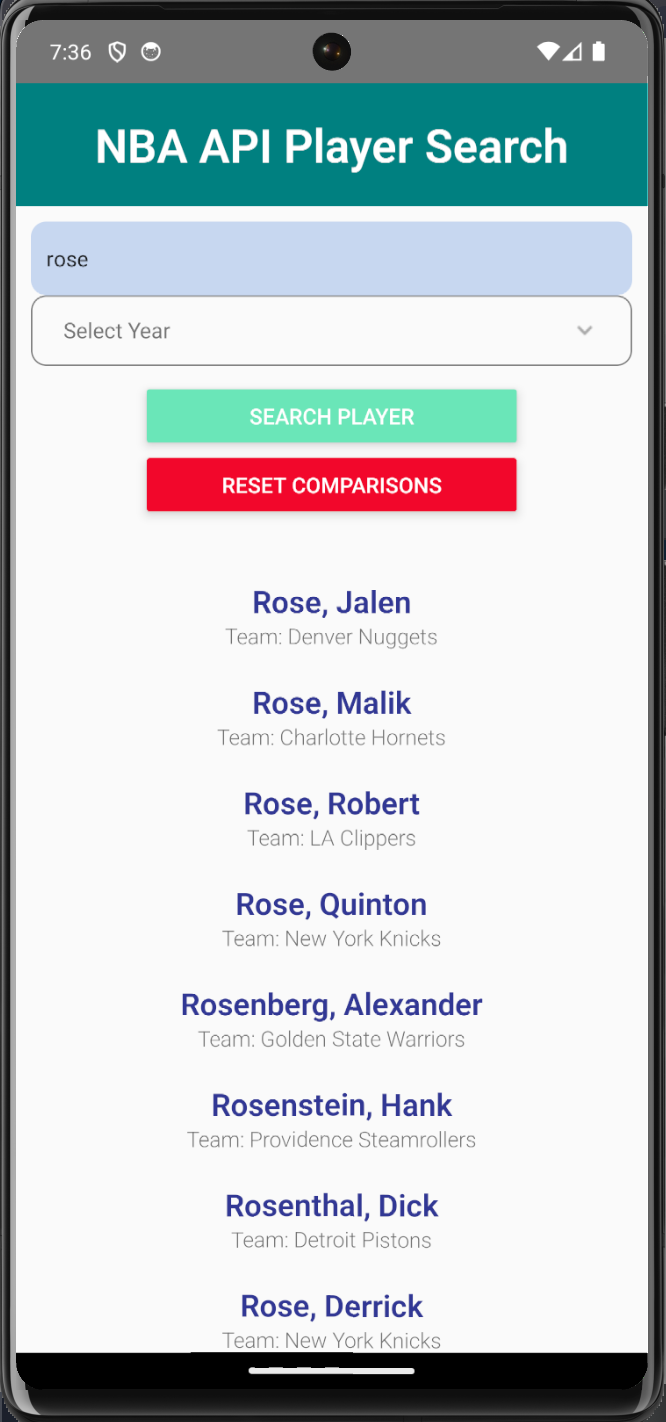
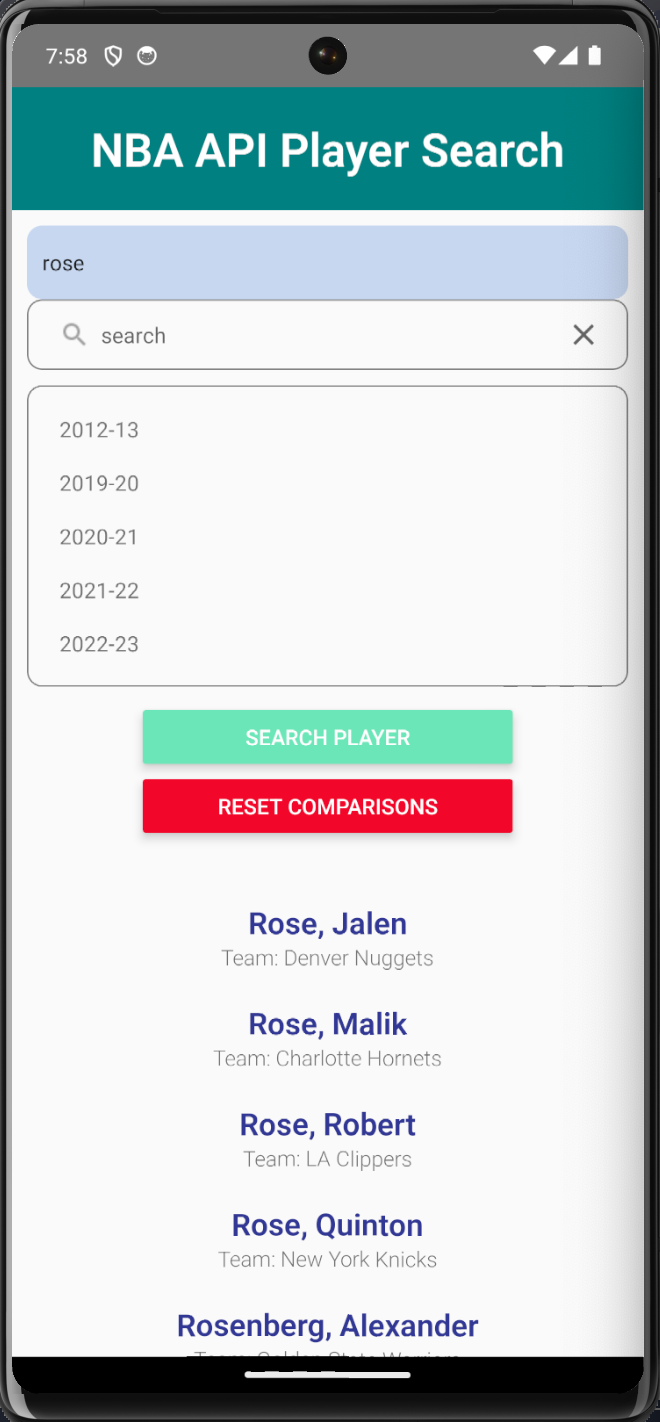
updated styling, readme, & images

Changed region(s): [[0.0, 0.0, 1.0, 1.0], [0.0909, 0.3713, 0.2121, 0.4641]]

diff --git a/components/API.tsx b/components/API.tsx
@@ -105,26 +105,39 @@ export default function API() {
 
         {/* display stats if available */}
         <View style={styles.statComparisonsContainer}>
-          {statComparisons.map(player => (
-            <View
-              key={`${player.id}.${player.selectedYear}`}
-              style={styles.playerStats}>
-              <View style={styles.playerNameStats}>
-                <Text>{player.firstName}</Text>
-                <Text>{player.lastName}</Text>
+          {statComparisons.length ? (
+            <View>
+              <View style={styles.statComparisonsHeader}>
+                <Text style={styles.headerText}>Player</Text>
+                <Text style={styles.headerText}>Year</Text>
+                <Text style={styles.headerText}>Pts</Text>
+                <Text style={styles.headerText}>Rbs</Text>
+                <Text style={styles.headerText}>Asts</Text>
               </View>
-              <Text>{player.selectedYear}</Text>
-              <Text>{player.stats[0]?.pts}</Text>
-              <Text>{player.stats[0]?.reb}</Text>
-              <Text>{player.stats[0]?.ast}</Text>
-              {/* <Text>{player.stats[0]?.stl}</Text>
+              {statComparisons.map(player => (
+                <View
+                  key={`${player.id}.${player.selectedYear}`}
+                  style={styles.playerStats}>
+                  <View style={styles.playerNameStats}>
+                    <Text style={styles.nameText}>{player.firstName}</Text>
+                    <Text style={styles.nameText}>{player.lastName}</Text>
+                  </View>
+                  <Text>{player.selectedYear}</Text>
+                  <Text>{player.stats[0]?.pts}</Text>
+                  <Text>{player.stats[0]?.reb}</Text>
+                  <Text>{player.stats[0]?.ast}</Text>
+                  {/* <Text>{player.stats[0]?.stl}</Text>
               <Text>{player.stats[0]?.blk}</Text>
               <Text>{player.stats[0]?.turnover}</Text>
               <Text>{player.stats[0]?.fg_pct}</Text>
               <Text>{player.stats[0]?.fg3_pct}</Text>
               <Text>{player.stats[0]?.ft_pct}</Text> */}
+                </View>
+              ))}
             </View>
-          ))}
+          ) : (
+            <View></View>
+          )}
         </View>
 
         {/* check player data & map through it */}
@@ -205,6 +218,21 @@ const styles = StyleSheet.create({
     display: 'flex',
     width: '100%',
     padding: 15,
+  },
+  statComparisonsHeader: {
+    display: 'flex',
+    flexDirection: 'row',
+    justifyContent: 'space-between',
+    paddingLeft: 25,
+    paddingRight: 5,
+    paddingTop: 5,
+    paddingBottom: 5,
+  },
+  nameText: {
+    color: 'red',
+  },
+  headerText: {
+    color: 'black',
   },
   playerStats: {
     display: 'flex',

diff --git a/README.md b/README.md
@@ -28,10 +28,10 @@ npm run ios
 
 ## Visuals
 
-<div>
+<div align="center">
 
 <img src="./images/screenshot1.png" alt="screenshot1" width="300"/>
-<img src="./images/screenshot2.png" alt="screenshot2" width="300"/>
+<img src="./images/screenshot2.png" alt="screenshot2" width="298"/>
 
 </div>
 
